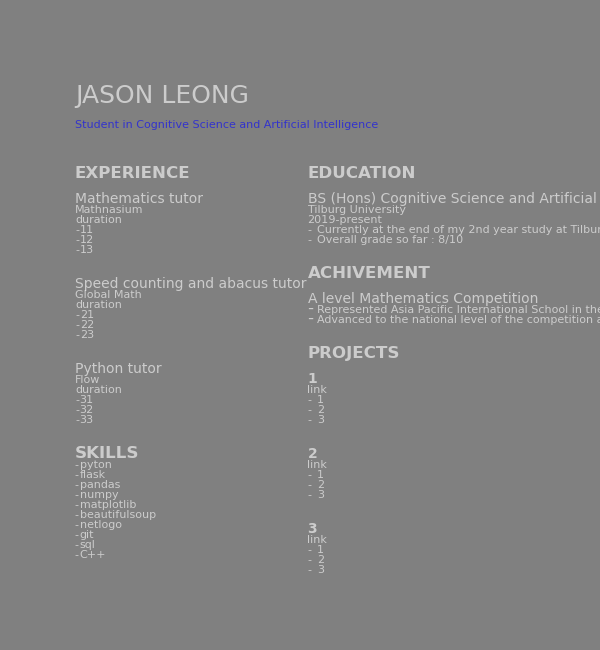
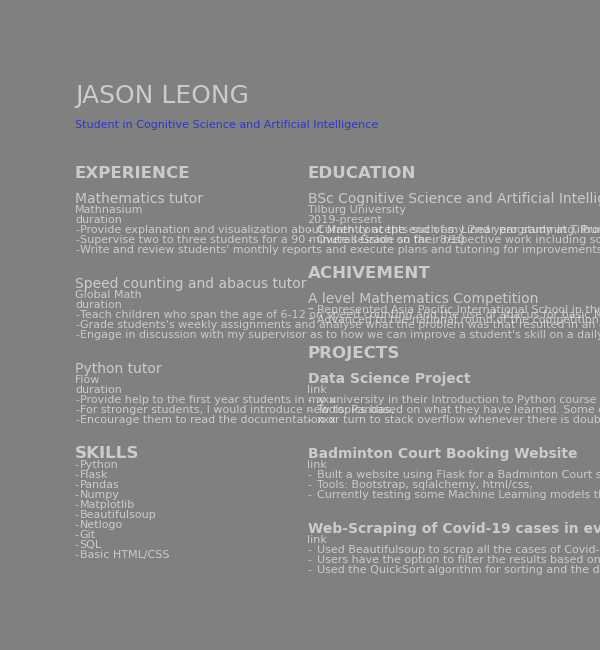
m

diff --git a/Matplotlib/Resume/resume_page1.py b/Matplotlib/Resume/resume_page1.py
@@ -14,40 +14,40 @@ Experience_title = 'EXPERIENCE'
 
 Job_1_company_name = 'Mathnasium'
 Job_1_position = 'Mathematics tutor'
-Job_1_responsibilities = ['11', '12', '13']
+Job_1_responsibilities = ['Provide explanation and visualization about Math concepts such as: Linear programming, Probability distributions, differentiation, and Introduction to Linear Algebra.','Supervise two to three students for a 90 minute session on their respective work including school assignments and contest preperation.', "Write and review students' monthly reports and execute plans and tutoring for improvements.", "Perform other duties and tasks as assigned such as moving all students' information to another website and re-creating study plans for most students due to technical issues.","Participate in meetings where we discussed about potentially successful teaching methods that we tried on students, students' progress and problems, and any special requests from students or parents."]
 Job_1_duration = 'duration'
 
 Job_2_company_name = "Global Math"
 Job_2_position = "Speed counting and abacus tutor"
-Job_2_responsibilities = ['21', '22', '23']
+Job_2_responsibilities = ['Teach children who span the age of 6-12 on speed counting and the use of abacus for basic Math operations.', "Grade students's weekly assignments and analyse what the problem was that resulted in an error, if there was any.", "Engage in discussion with my supervisor as to how we can improve a student's skill on a daily basis."]
 Job_2_duration = 'duration'
 
 Job_3_company_name = 'Flow'
 Job_3_position = 'Python tutor'
-Job_3_responsibilities = ['31', '32', '33']
+Job_3_responsibilities = ["Provide help to the first year students in my university in their Introduction to Python course by explaining concepts such as: dictionaries, sets, recursion, as well as the os and random module.", "For stronger students, I would introduce new topics based on what they have learned. Some of these are: linked list, OOP, searching and sorting, and the analysis of time and space complexity for basic functions.", "Encourage them to read the documentation or turn to stack overflow whenever there is doubts."]
 Job_3_duration = 'duration'
 
 Skills_Title = 'SKILLS'
-Skills = ["pyton", "flask", "pandas", "numpy", "matplotlib", "beautifulsoup", "netlogo", "git", "sql", "C++"]
+Skills = ["Python", "Flask", "Pandas", "Numpy", "Matplotlib", "Beautifulsoup", "Netlogo", "Git", "SQL", "Basic HTML/CSS"]
 
 Languages_Title = 'LANGUAGES'
-Languages = ["English", "Chinese", "Cantonese", "basic Malay"]
+Languages = ["English", "Chinese", "Cantonese"]
 
 Achivement_Title = 'ACHIVEMENT'
 Achivements = ['A level Mathematics Competition']
-A_Description = ['Represented Asia Pacific International School in the Mathematics Competition at district level.',
-                 'Advanced to the national level of the competition after winning the district level.']
+A_Description = ['Represented Asia Pacific International School in the Advanced-Level Mathematics Competition at district round.',
+                 'Advanced to the national round of the competition after winning the district round.']
 
 Education_Title = 'EDUCATION'
-Education = ['BS (Hons) Cognitive Science and Artificial Intelligence (CSAI)']
+Education = ['BSc Cognitive Science and Artificial Intelligence (CSAI)']
 University = ['Tilburg University']
 Education_Duration = ['2019-present']
-E_Description = ['Currently at the end of my 2nd year study at Tilburg University.', 'Overall grade so far : 8/10']
+E_Description = ['Currently at the end of my 2nd year study at Tilburg University.', 'Overall Grade so far : 8/10']
 
 Projects_Title = 'PROJECTS'
-Project_Names = ['1', '2', '3']
+Project_Names = ['Data Science Project', 'Badminton Court Booking Website', 'Web-Scraping of Covid-19 cases in every state of Malaysia.']
 Project_Links = ['link', 'link', 'link']
-Project_Descriptions = [['1', '2', '3'], ['1', '2', '3'], ['1', '2', '3']]
+Project_Descriptions = [["xxx", "Tools: Pandas, ", "xxx"], ['Built a website using Flask for a Badminton Court so that people can reserve a court online rather than the traditional way of calling to the place and hoping that someone would pick up.', 'Tools: Bootstrap, sqlalchemy, html/css, ', 'Currently testing some Machine Learning models that would charge different prices to maximise revenue while maintaining user satisfaction.'], ['Used Beautifulsoup to scrap all the cases of Covid-19 in my home country.', 'Users have the option to filter the results based on states and order.', 'Used the QuickSort algorithm for sorting and the datetime module for filtering as ways to improve time and space complexity.']]
 
 Contact_Title = 'Contact Me'
 Contact_ID = ['Email: ', 'Phone: ', 'LinkedIN: ']

diff --git a/Matplotlib/Resume/resume_page2.py b/Matplotlib/Resume/resume_page2.py
@@ -3,8 +3,8 @@ from pylab import rcParams
 import resume_page1 as r1
 
 Strength_Title = 'STRENGTHS'
-Strengths = ['1','2','3']
-Strength_Descriptions = [['11','12'],['21','22'],['31','32']]
+Strengths = ['Written and Verbal Communication','Team Building','Committed to Lifelong Learning']
+Strength_Descriptions = [['Vice-president of KDU Debate Association in 2018-2019 and participated in numerous debate tournaments such as KDU Pro-Ams and xxx.','House Captain and Deputy Head Prefect in 2015-2017. Organising and being the MC for many events such as Pi Day, Sports Day, and Interview of new prefects recruits.'],['Participated in continuous meetings during previous internships for the development and enrichment of different skills in our groups.','Received training from seniors at work about teaching methods and new Math concepts, and providing similar training to new colleagues.'],['Always seeking for explanations and logic for how things are done. For example, metaclasses are class of class and what about things that are higher than metaclasses?','Main reason for why I chose to study Cognitive Science and AI rather than Computer Science and AI.']]
 
 Hobby_Title = 'HOBBIES'
 Hobbies = ['Badminton','Basketball','Chess','Coding','Travelling','Stamp Collection']
@@ -19,8 +19,6 @@ def resume_page_2():
     plt.annotate(r1.Languages[1], (0.02,0.88), weight='regular', fontsize=8, alpha=.6,color='white')
     plt.annotate('- ', (0,0.86), weight='regular', fontsize=8, alpha=.6,color='white')
     plt.annotate(r1.Languages[2], (0.02,0.86), weight='regular', fontsize=8, alpha=.6,color='white')
-    plt.annotate('- ', (0,0.84), weight='regular', fontsize=8, alpha=.6,color='white')
-    plt.annotate(r1.Languages[3], (0.02,0.84), weight='regular', fontsize=8, alpha=.6,color='white')
 
     # Strengths
     plt.annotate(Strength_Title, (0.5,0.95), weight='bold', fontsize=12, alpha=.6,color='white')
